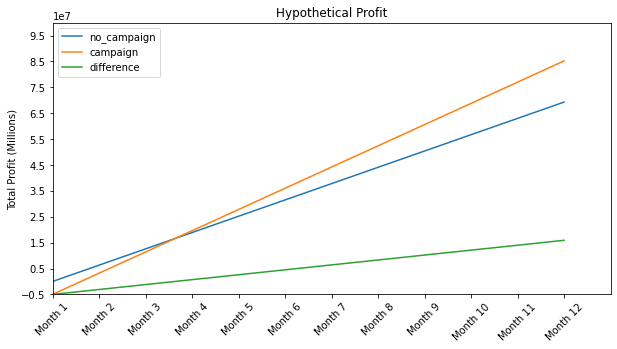
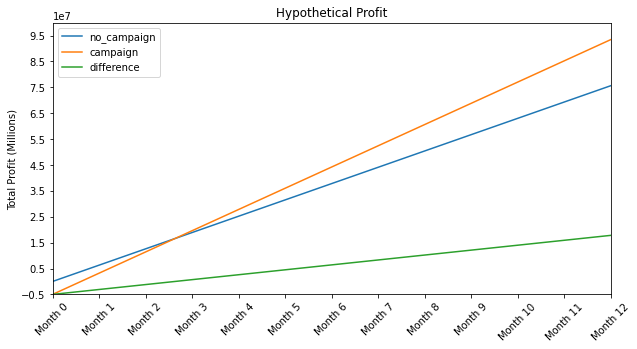
Continued work on README and corrected error

diff --git a/README.md b/README.md
@@ -31,9 +31,9 @@ On average, Freedom charges a fee of 21.5% of the total amount of debt that they
 
 ![Profit_Per_Month](/resources/images/profit_by_month.png)
 
-On average, the profit per month before the campaign was ~$6.3 million while after the campaign it was ~$8.3 million. This indicates the marketing campaign increased profit ~$2 million per month. 
+On average, the profit per month before the campaign was ~$6.3 million while after the campaign it was ~$8.2 million. This indicates the marketing campaign increased profit ~$1.9 million per month. 
 
-To better understand the cost and benefits of the marketing campaign, hypothetical data was generated to show total profit over a 12 month period with/without the campaign. It was assumed that profit each month would reflect the average profit per month before and after the campaign (before = $6.3 million and after = $8.3 million). In addition, since the marketing campaign cost $5 million the with campaign began at -$5 million. We can see that by the 4th month the campaign would have increased profits by $700,000 and by the 12th month profits would be icnreased by $15,900,000. 
+To better understand the cost and benefits of the marketing campaign, hypothetical data was generated to show total profit over a 12 month period with/without the campaign. It was assumed that profit each month would reflect the average profit per month before and after the campaign (before = $6.3 million and after = $8.2 million). In addition, since the marketing campaign cost $5 million campaign began at -$5 million. We can see that by the 4th month the campaign would have increased profits by $700,000 and by the 12th month profits would be icnreased by $17,800,000. 
 
 ![Hypothetical Profit](/resources/images/hypothetical_profit.png)
 
